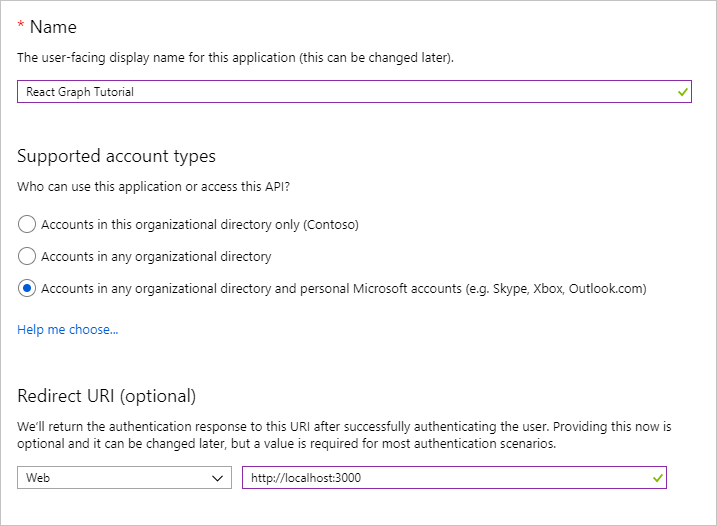
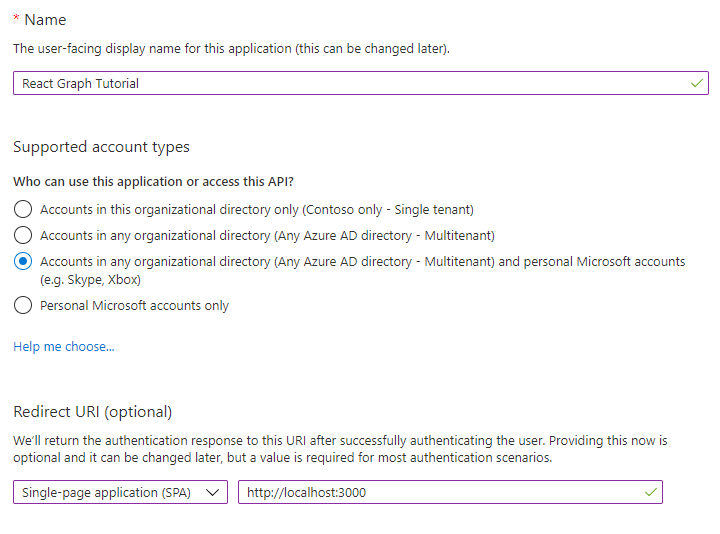
Upgrade MSAL to 2.1
Refactored code as needed

diff --git a/demo/graph-tutorial/src/AuthProvider.tsx b/demo/graph-tutorial/src/AuthProvider.tsx
@@ -1,7 +1,7 @@
 // Copyright (c) Microsoft Corporation.
 // Licensed under the MIT License.
 import React from 'react';
-import { UserAgentApplication } from 'msal';
+import { PublicClientApplication } from '@azure/msal-browser';
 
 import { config } from './Config';
 import { getUserDetails } from './GraphService';
@@ -25,7 +25,7 @@ interface AuthProviderState {
 export default function withAuthProvider<T extends React.Component<AuthComponentProps>>
   (WrappedComponent: new (props: AuthComponentProps, context?: any) => T): React.ComponentClass {
   return class extends React.Component<any, AuthProviderState> {
-    private userAgentApplication: UserAgentApplication;
+    private publicClientApplication: PublicClientApplication;
 
     constructor(props: any) {
       super(props);
@@ -36,7 +36,7 @@ export default function withAuthProvider<T extends React.Component<AuthComponent
       };
 
       // Initialize the MSAL application object
-      this.userAgentApplication = new UserAgentApplication({
+      this.publicClientApplication = new PublicClientApplication({
         auth: {
           clientId: config.appId,
           redirectUri: config.redirectUri
@@ -51,9 +51,9 @@ export default function withAuthProvider<T extends React.Component<AuthComponent
     componentDidMount() {
       // If MSAL already has an account, the user
       // is already logged in
-      var account = this.userAgentApplication.getAccount();
+      const accounts = this.publicClientApplication.getAllAccounts();
 
-      if (account) {
+      if (accounts && accounts.length > 0) {
         // Enhance user object with data from Graph
         this.getUserProfile();
       }
@@ -74,11 +74,12 @@ export default function withAuthProvider<T extends React.Component<AuthComponent
     async login() {
       try {
         // Login via popup
-        await this.userAgentApplication.loginPopup(
+        await this.publicClientApplication.loginPopup(
           {
             scopes: config.scopes,
             prompt: "select_account"
           });
+
         // After login, get the user's profile
         await this.getUserProfile();
       }
@@ -92,27 +93,34 @@ export default function withAuthProvider<T extends React.Component<AuthComponent
     }
 
     logout() {
-      this.userAgentApplication.logout();
+      this.publicClientApplication.logout();
     }
 
     async getAccessToken(scopes: string[]): Promise<string> {
       try {
+        const accounts = this.publicClientApplication
+          .getAllAccounts();
+
+        if (accounts.length <= 0) throw new Error('login_required');
         // Get the access token silently
         // If the cache contains a non-expired token, this function
         // will just return the cached token. Otherwise, it will
         // make a request to the Azure OAuth endpoint to get a token
-        var silentResult = await this.userAgentApplication.acquireTokenSilent({
-          scopes: scopes
-        });
+        var silentResult = await this.publicClientApplication
+          .acquireTokenSilent({
+            scopes: scopes,
+            account: accounts[0]
+          });
 
         return silentResult.accessToken;
       } catch (err) {
         // If a silent request fails, it may be because the user needs
         // to login or grant consent to one or more of the requested scopes
         if (this.isInteractionRequired(err)) {
-          var interactiveResult = await this.userAgentApplication.acquireTokenPopup({
-            scopes: scopes
-          });
+          var interactiveResult = await this.publicClientApplication
+            .acquireTokenPopup({
+              scopes: scopes
+            });
 
           return interactiveResult.accessToken;
         } else {
@@ -181,7 +189,8 @@ export default function withAuthProvider<T extends React.Component<AuthComponent
       return (
         error.message.indexOf('consent_required') > -1 ||
         error.message.indexOf('interaction_required') > -1 ||
-        error.message.indexOf('login_required') > -1
+        error.message.indexOf('login_required') > -1 ||
+        error.message.indexOf('no_account_in_silent_request') > -1
       );
     }
   }

diff --git a/tutorial/04-add-aad-auth.md b/tutorial/04-add-aad-auth.md
@@ -19,7 +19,7 @@ In this section you'll create an authentication provider and implement sign-in a
 
     ```typescript
     import React from 'react';
-    import { UserAgentApplication } from 'msal';
+    import { PublicClientApplication } from '@azure/msal-browser';
 
     import { config } from './Config';
 
@@ -42,7 +42,7 @@ In this section you'll create an authentication provider and implement sign-in a
     export default function withAuthProvider<T extends React.Component<AuthComponentProps>>
       (WrappedComponent: new(props: AuthComponentProps, context?: any) => T): React.ComponentClass {
       return class extends React.Component<any, AuthProviderState> {
-        private userAgentApplication: UserAgentApplication;
+        private publicClientApplication: PublicClientApplication;
 
         constructor(props: any) {
           super(props);
@@ -53,7 +53,7 @@ In this section you'll create an authentication provider and implement sign-in a
           };
 
           // Initialize the MSAL application object
-          this.userAgentApplication = new UserAgentApplication({
+          this.publicClientApplication = new PublicClientApplication({
             auth: {
                 clientId: config.appId,
                 redirectUri: config.redirectUri
@@ -68,9 +68,9 @@ In this section you'll create an authentication provider and implement sign-in a
         componentDidMount() {
           // If MSAL already has an account, the user
           // is already logged in
-          var account = this.userAgentApplication.getAccount();
+          const accounts = this.publicClientApplication.getAllAccounts();
 
-          if (account) {
+          if (accounts && accounts.length > 0) {
             // Enhance user object with data from Graph
             this.getUserProfile();
           }
@@ -91,11 +91,12 @@ In this section you'll create an authentication provider and implement sign-in a
         async login() {
           try {
             // Login via popup
-            await this.userAgentApplication.loginPopup(
+            await this.publicClientApplication.loginPopup(
                 {
                   scopes: config.scopes,
                   prompt: "select_account"
               });
+
             // After login, get the user's profile
             await this.getUserProfile();
           }
@@ -109,27 +110,34 @@ In this section you'll create an authentication provider and implement sign-in a
         }
 
         logout() {
-          this.userAgentApplication.logout();
+          this.publicClientApplication.logout();
         }
 
         async getAccessToken(scopes: string[]): Promise<string> {
           try {
+            const accounts = this.publicClientApplication
+              .getAllAccounts();
+
+            if (accounts.length <= 0) throw new Error('login_required');
             // Get the access token silently
             // If the cache contains a non-expired token, this function
             // will just return the cached token. Otherwise, it will
             // make a request to the Azure OAuth endpoint to get a token
-            var silentResult = await this.userAgentApplication.acquireTokenSilent({
-              scopes: scopes
-            });
+            var silentResult = await this.publicClientApplication
+                .acquireTokenSilent({
+                  scopes: scopes,
+                  account: accounts[0]
+                });
 
             return silentResult.accessToken;
           } catch (err) {
             // If a silent request fails, it may be because the user needs
             // to login or grant consent to one or more of the requested scopes
             if (this.isInteractionRequired(err)) {
-              var interactiveResult = await this.userAgentApplication.acquireTokenPopup({
-                scopes: scopes
-              });
+              var interactiveResult = await this.publicClientApplication
+                  .acquireTokenPopup({
+                    scopes: scopes
+                  });
 
               return interactiveResult.accessToken;
             } else {
@@ -189,7 +197,8 @@ In this section you'll create an authentication provider and implement sign-in a
           return (
             error.message.indexOf('consent_required') > -1 ||
             error.message.indexOf('interaction_required') > -1 ||
-            error.message.indexOf('login_required') > -1
+            error.message.indexOf('login_required') > -1 ||
+            error.message.indexOf('no_account_in_silent_request') > -1
           );
         }
       }
@@ -250,4 +259,4 @@ At this point your application has an access token, which is sent in the `Author
 
 However, this token is short-lived. The token expires an hour after it is issued. This is where the refresh token becomes useful. The refresh token allows the app to request a new access token without requiring the user to sign in again.
 
-Because the app is using the MSAL library, you do not have to implement any token storage or refresh logic. The `UserAgentApplication` caches the token in the browser session. The `acquireTokenSilent` method first checks the cached token, and if it is not expired, it returns it. If it is expired, it uses the cached refresh token to obtain a new one. You'll use this method more in the following module.
+Because the app is using the MSAL library, you do not have to implement any token storage or refresh logic. The `PublicClientApplication` caches the token in the browser session. The `acquireTokenSilent` method first checks the cached token, and if it is not expired, it returns it. If it is expired, it uses the cached refresh token to obtain a new one. You'll use this method more in the following module.

diff --git a/tutorial/02-create-app.md b/tutorial/02-create-app.md
@@ -26,14 +26,14 @@ Before moving on, install some additional packages that you will use later:
 - [fontawesome-free](https://github.com/FortAwesome/Font-Awesome) for icons.
 - [moment](https://github.com/moment/moment) for formatting dates and times.
 - [windows-iana](https://github.com/rubenillodo/windows-iana) for translating Windows time zones to IANA format.
-- [msal](https://github.com/AzureAD/microsoft-authentication-library-for-js) for authenticating to Azure Active Directory and retrieving access tokens.
+- [msal-browser](https://github.com/AzureAD/microsoft-authentication-library-for-js/tree/dev/lib/msal-browser) for authenticating to Azure Active Directory and retrieving access tokens.
 - [microsoft-graph-client](https://github.com/microsoftgraph/msgraph-sdk-javascript) for making calls to Microsoft Graph.
 
 Run the following command in your CLI.
 
 ```Shell
 npm install react-router-dom@5.2.0 @types/react-router-dom@5.1.5 bootstrap@4.5.2 reactstrap@8.5.1 @types/reactstrap@8.5.1 @fortawesome/fontawesome-free@5.14.0
-npm install moment@2.27.0 moment-timezone@0.5.31 windows-iana@4.2.1 msal@1.4.0 @microsoft/microsoft-graph-client@2.0.0 @types/microsoft-graph@1.18.0
+npm install moment@2.27.0 moment-timezone@0.5.31 windows-iana@4.2.1 @azure/msal-browser@2.1.0 @microsoft/microsoft-graph-client@2.0.0 @types/microsoft-graph@1.18.0
 ```
 
 ## Design the app

diff --git a/demo/README.md b/demo/README.md
@@ -26,17 +26,13 @@ If you don't have a Microsoft account, there are a couple of options to get a fr
 
     - Set **Name** to `React Graph Tutorial`.
     - Set **Supported account types** to **Accounts in any organizational directory and personal Microsoft accounts**.
-    - Under **Redirect URI**, set the first drop-down to `Web` and set the value to `http://localhost:3000`.
+    - Under **Redirect URI**, set the first drop-down to `Single-page application (SPA)` and set the value to `http://localhost:3000`.
 
     ![A screenshot of the Register an application page](/tutorial/images/aad-register-an-app.png)
 
 1. Choose **Register**. On the **Angular Graph Tutorial** page, copy the value of the **Application (client) ID** and save it, you will need it in the next step.
 
     ![A screenshot of the application ID of the new app registration](/tutorial/images/aad-application-id.png)
-
-1. Select **Authentication** under **Manage**. Locate the **Implicit grant** section and enable **Access tokens** and **ID tokens**. Choose **Save**.
-
-    ![A screenshot of the Implicit grant section](/tutorial/images/aad-implicit-grant.png)
 
 ## Configure the sample
 

diff --git a/tutorial/03-register-app.md b/tutorial/03-register-app.md
@@ -15,14 +15,10 @@ In this exercise, you will create a new Azure AD web application registration us
 
     - Set **Name** to `React Graph Tutorial`.
     - Set **Supported account types** to **Accounts in any organizational directory and personal Microsoft accounts**.
-    - Under **Redirect URI**, set the first drop-down to `Web` and set the value to `http://localhost:3000`.
+    - Under **Redirect URI**, set the first drop-down to `Single-page application (SPA)` and set the value to `http://localhost:3000`.
 
     ![A screenshot of the Register an application page](./images/aad-register-an-app.png)
 
 1. Choose **Register**. On the **React Graph Tutorial** page, copy the value of the **Application (client) ID** and save it, you will need it in the next step.
 
     ![A screenshot of the application ID of the new app registration](./images/aad-application-id.png)
-
-1. Select **Authentication** under **Manage**. Locate the **Implicit grant** section and enable **Access tokens** and **ID tokens**. Choose **Save**.
-
-    ![A screenshot of the Implicit grant section](./images/aad-implicit-grant.png)
